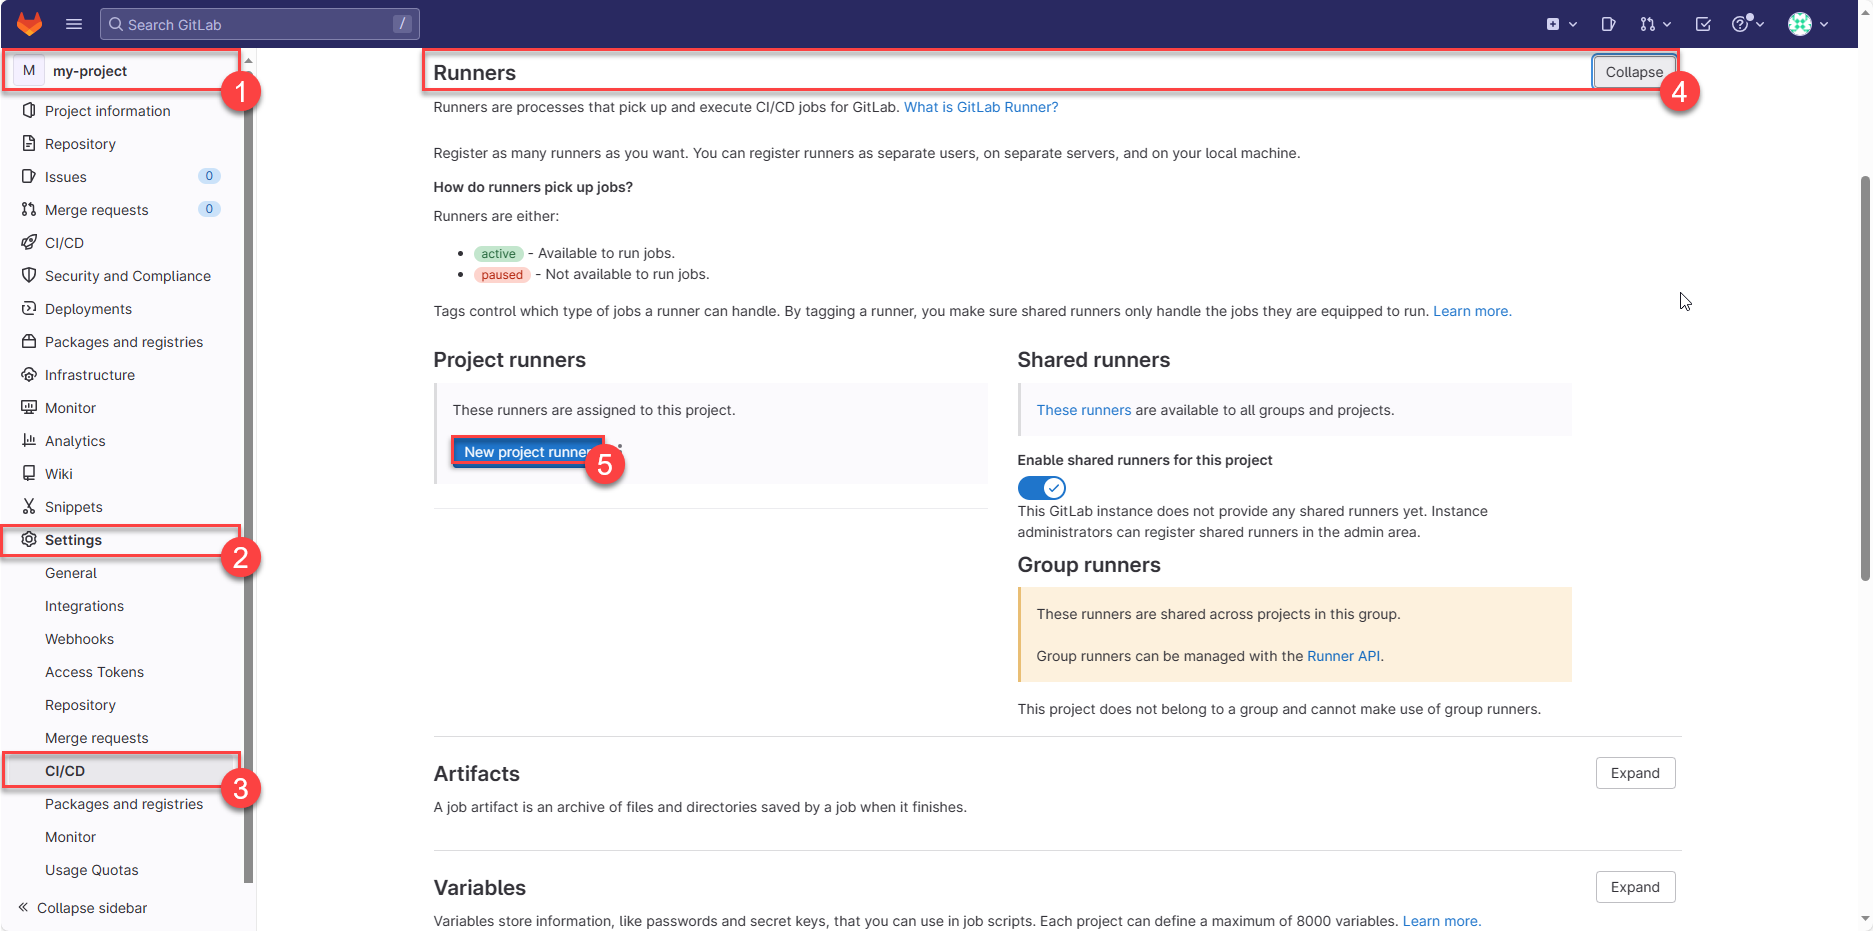
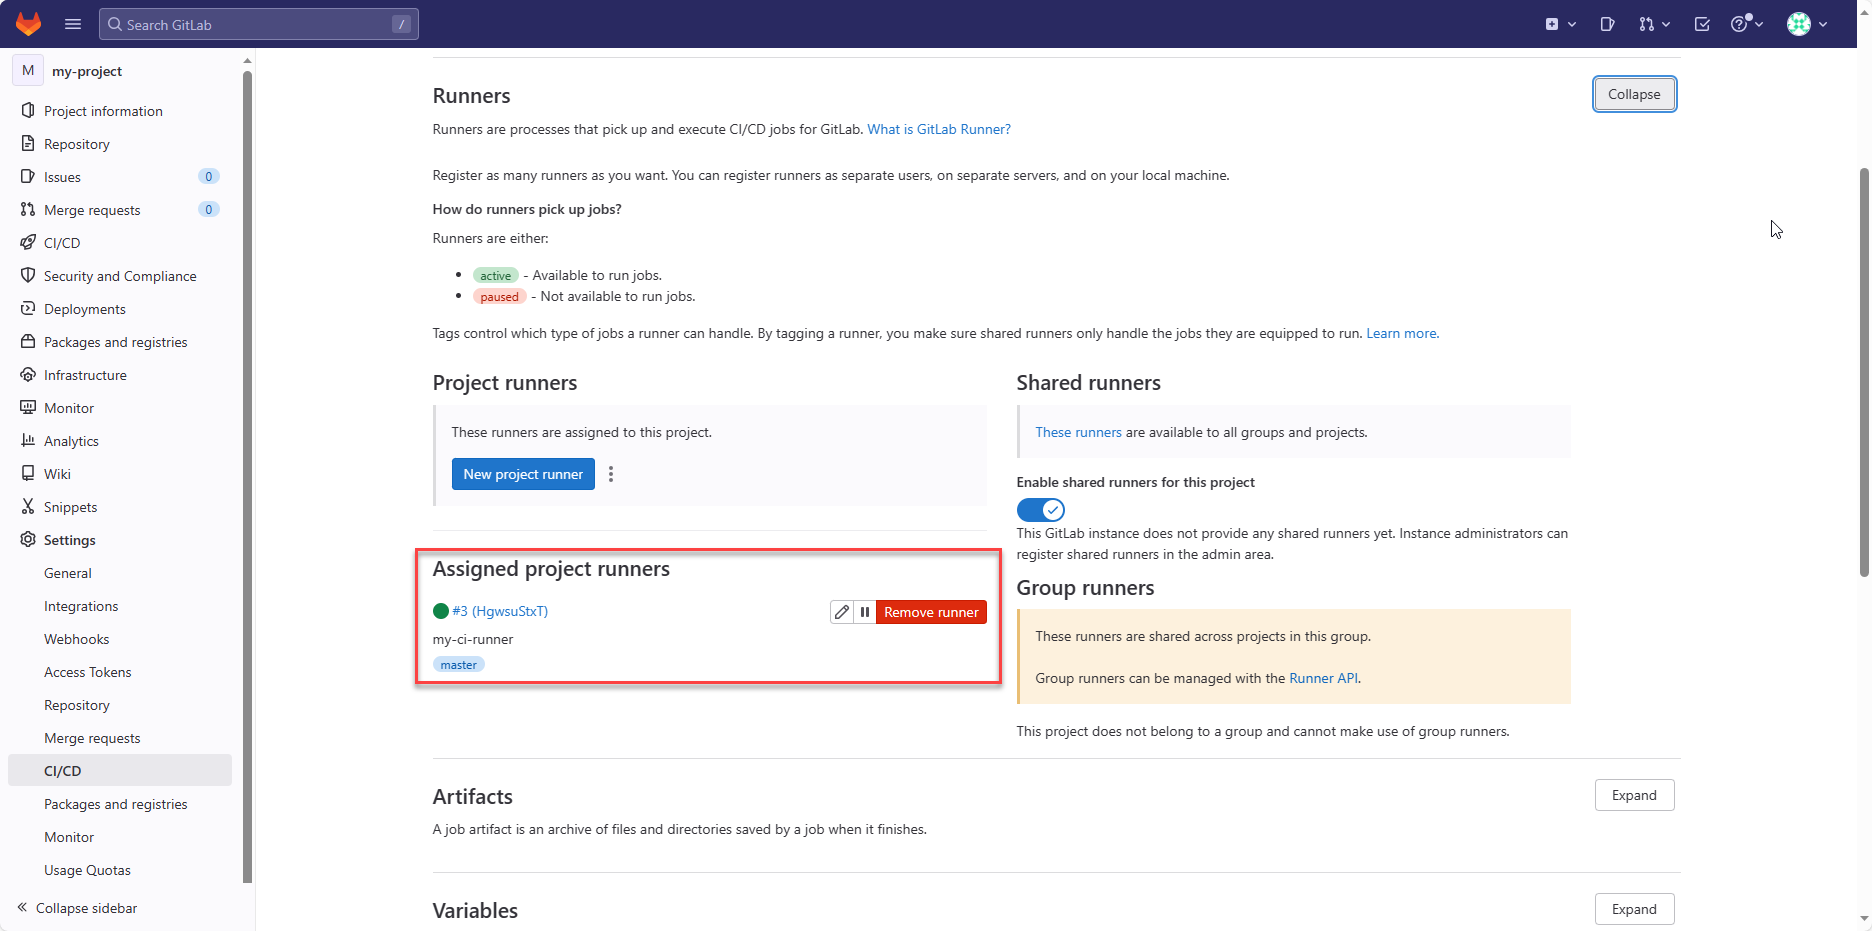
新的文章

diff --git a/source/_posts/運用Docker建置GitLab Server與GitLab CI Runner.md b/source/_posts/運用Docker建置GitLab Server與GitLab CI Runner.md
@@ -9,10 +9,10 @@ tags:
   - DevOps
 
 keywords: Docker, CI/CD, DevOps, GitLab
-date: 2023-5-16 12:00:00
+date: 2023-6-14 12:00:00
 copyright_info: 此文章版權歸JUN-HONG所有，如有轉載，請註明來自原作者
 
-cover: https://cdn.jsdelivr.net/gh/sp12893678/blog@gh-pages/img/
+cover: https://cdn.jsdelivr.net/gh/sp12893678/blog@gh-pages/img/banner_gitlab-server-runner-docker.jpg
 ---
 
 ## 前言
@@ -37,6 +37,12 @@ GitLab CI Runner為提供GitLab 運行CI/CD作業的應用程式
     - 運行GitLab CI Runner容器
     - 註冊GitLab CI Runner
     - 查看該Project的Runner是否成功註冊
+- 測試GitLab CI Runner
+    - 於Repo中建立.gitlab-ci.yml持續整合設定檔
+    - 觸發CI/CD機制
+    - 查看GitLab CI/CD Pipelines狀態
+    - .gitlab-ci.yml設置Docker指令
+
 
 ## 環境準備
 範例中的作業系統採用Ubuntu 22.04版本，環境只要安裝Docker
@@ -137,30 +143,29 @@ https://docs.gitlab.com/omnibus/settings/smtp.html
 ### 申請Gmail應用程式密碼
 若想要使用Gmail SMTP服務，讓你的軟體可以用指定的gmail發信，但又不想要在系統/軟體輸入自己的gmail密碼。如此可於google帳戶中申請應用程式密碼
 
-#### 前往Google帳戶管理頁面
-
-如圖點擊紅框處的按鈕
-    
-![Untitled](https://cdn.jsdelivr.net/gh/sp12893678/blog@gh-pages/img/gitlab-server-1.jpg)
-
-
-#### 到安全性頁面點擊兩步驟驗證，並進行相關設定
-
-{% note info flat %}
-💡透過兩步驟驗證使得之後不小心外洩密碼，google發現是異地登入時會需要手機驗證
-增加帳戶的安全性
-{% endnote %}
-![Untitled](https://cdn.jsdelivr.net/gh/sp12893678/blog@gh-pages/img/gitlab-server-2.jpg)
+- 前往Google帳戶管理頁面
+    如圖點擊紅框處的按鈕
+        
+    ![Untitled](https://cdn.jsdelivr.net/gh/sp12893678/blog@gh-pages/img/gitlab-server-1.jpg)
 
 
-#### 下拉到下方內容點擊紅框，前往應用程式密碼頁面
-![Untitled](https://cdn.jsdelivr.net/gh/sp12893678/blog@gh-pages/img/gitlab-server-3.jpg)
+- 到安全性頁面點擊兩步驟驗證，並進行相關設定
 
-#### 選擇所需的產生密碼的應用程式與裝置
-- 我們的需求是SMTP也就郵件應用程式
-- 裝置可以自訂名稱。如GitLab server
-- 按產生按鈕就會顯示密碼拉
-![Untitled](https://cdn.jsdelivr.net/gh/sp12893678/blog@gh-pages/img/gitlab-server-4.jpg)
+    {% note info flat %}
+    💡透過兩步驟驗證使得之後不小心外洩密碼，google發現是異地登入時會需要手機驗證
+    增加帳戶的安全性
+    {% endnote %}
+    ![Untitled](https://cdn.jsdelivr.net/gh/sp12893678/blog@gh-pages/img/gitlab-server-2.jpg)
+
+
+- 下拉到下方內容點擊紅框，前往應用程式密碼頁面
+    ![Untitled](https://cdn.jsdelivr.net/gh/sp12893678/blog@gh-pages/img/gitlab-server-3.jpg)
+
+- 選擇所需的產生密碼的應用程式與裝置
+    - 我們的需求是SMTP也就郵件應用程式
+    - 裝置可以自訂名稱。如GitLab server
+    - 按產生按鈕就會顯示密碼拉
+    ![Untitled](https://cdn.jsdelivr.net/gh/sp12893678/blog@gh-pages/img/gitlab-server-4.jpg)
 
 ### 撰寫.env環境變數
 從docker-compose.yml中可以看到有被${}符號標記的為使用環境變數，SMTP_PASSWORD的值就是填寫剛才申請的應用程式密碼拉
@@ -201,26 +206,26 @@ Notify.test_email('your_email', 'title', 'content').deliver_now
 
 在使用者註冊上，GitLab有提供許多的設置選項，讓團隊可以根據需求設定
 
-#### 以root身分登入並前往admin頁面
-![Untitled](https://cdn.jsdelivr.net/gh/sp12893678/blog@gh-pages/img/gitlab-server-5.jpg)
+- 以root身分登入並前往admin頁面
+    ![Untitled](https://cdn.jsdelivr.net/gh/sp12893678/blog@gh-pages/img/gitlab-server-5.jpg)
 
-#### 在側邊選單點擊Settings→General
-![Untitled](https://cdn.jsdelivr.net/gh/sp12893678/blog@gh-pages/img/gitlab-server-6.jpg)
+- 在側邊選單點擊Settings→General
+    ![Untitled](https://cdn.jsdelivr.net/gh/sp12893678/blog@gh-pages/img/gitlab-server-6.jpg)
 
-#### 下拉至Sign-up restrictions
+- 下拉至Sign-up restrictions
 
-這邊是註冊的限制相關設定，如：
+    這邊是註冊的限制相關設定，如：
 
-1. 否允許註冊
-2. 是否需要管理者同意新註冊用戶
-3. 信件確認設定 (不強制使用者信件確認、可立即登入，但三天內需信件確認、登入前必須完成信件確認)
-4. 密碼最低長度
-5. 允許或拒絕來自哪些domain的註冊
-6. 設定註冊信箱必須符合設置的regex格式
-![Untitled](https://cdn.jsdelivr.net/gh/sp12893678/blog@gh-pages/img/gitlab-server-7.jpg)
+    1. 否允許註冊
+    2. 是否需要管理者同意新註冊用戶
+    3. 信件確認設定 (不強制使用者信件確認、可立即登入，但三天內需信件確認、登入前必須完成信件確認)
+    4. 密碼最低長度
+    5. 允許或拒絕來自哪些domain的註冊
+    6. 設定註冊信箱必須符合設置的regex格式
+    ![Untitled](https://cdn.jsdelivr.net/gh/sp12893678/blog@gh-pages/img/gitlab-server-7.jpg)
 
 
-完成設定後，就可以去嘗試使用者註冊啦
+    完成設定後，就可以去嘗試使用者註冊啦
 
 
 
@@ -271,63 +276,129 @@ docker compose up
 ![Untitled](https://cdn.jsdelivr.net/gh/sp12893678/blog@gh-pages/img/gitlab-server-11.jpg)
 
 ### 註冊GitLab CI Runner
-1. 進入runner容器內
+- 進入runner容器內
 
-```bash
-docker exec -it gitlab_runner bash
-```
+    ```bash
+    docker exec -it gitlab_runner bash
+    ```
 
-1. 設置信任的網站SSL憑證
+- 設置信任的網站SSL憑證
 
-若嘗試訪問的網站具有已過期或來自不受信任的頒發機構的 SSL 證書，可能會出現下圖問題
-![Untitled](https://cdn.jsdelivr.net/gh/sp12893678/blog@gh-pages/img/gitlab-server-12.jpg)
+    若嘗試訪問的網站具有已過期或來自不受信任的頒發機構的 SSL 證書，可能會出現下圖問題
+    ![Untitled](https://cdn.jsdelivr.net/gh/sp12893678/blog@gh-pages/img/gitlab-server-12.jpg)
 
-因此註冊前先將gitlab server網站的憑證加入至信任內
+    因此註冊前先將gitlab server網站的憑證加入至信任內
 
-```yaml
-mkdir /etc/gitlab-runner/certs
-openssl s_client -showcerts -connect your_domain:443 servername your_domain < /dev/null 2>/dev/null | openssl x509 -outform PEM > /etc/gitlab-runner/certs/your_domain.crt
-```
+    ```yaml
+    mkdir /etc/gitlab-runner/certs
+    openssl s_client -showcerts -connect your_domain:443 servername your_domain < /dev/null 2>/dev/null | openssl x509 -outform PEM > /etc/gitlab-runner/certs/your_domain.crt
+    ```
 
-1. 執行runner註冊指令
+- 執行runner註冊指令
 
-```bash
-gitlab-runner register
-```
-註冊中會要求輸入：
+    ```bash
+    gitlab-runner register
+    ```
+    註冊中會要求輸入：
 
-1. GitLab server URL：由於docker-compose.yml有先設定了，這邊默認即可
-2. 註冊Runner的token：貼上剛才指令的token
-3. 該Runner的tags：空白即可
-4. 維護的資訊：空白即可
-5. 執行器：docker
-6. 預設docker image：alpine:latest
-![Untitled](https://cdn.jsdelivr.net/gh/sp12893678/blog@gh-pages/img/gitlab-server-13.jpg)
-{% note info flat %}
-💡Docker executor 使用 Docker 引擎創建一個新的容器來執行作業。每個作業都在一個獨立的容器中運行，可以指定不同的容器鏡像和運行環境。這種執行者適用於需要隔離環境或依賴特定容器鏡像的作業。
-{% endnote %}
+    1. GitLab server URL：由於docker-compose.yml有先設定了，這邊默認即可
+    2. 註冊Runner的token：貼上剛才指令的token
+    3. 該Runner的tags：空白即可
+    4. 維護的資訊：空白即可
+    5. 執行器：docker
+    6. 預設docker image：alpine:latest
+    ![Untitled](https://cdn.jsdelivr.net/gh/sp12893678/blog@gh-pages/img/gitlab-server-13.jpg)
+    {% note info flat %}
+    💡Docker executor 使用 Docker 引擎創建一個新的容器來執行作業。每個作業都在一個獨立的容器中運行，可以指定不同的容器鏡像和運行環境。這種執行者適用於需要隔離環境或依賴特定容器鏡像的作業。
+    {% endnote %}
 
 
-1. 查看設定檔config.toml
+- 查看設定檔config.toml
 
-可以看到剛才的註冊資訊寫入至該設定檔中，後續更新與檢查可使用
+    可以看到剛才的註冊資訊寫入至該設定檔中，後續更新與檢查可使用
 
-```yaml
-cat config.toml
-```
-![Untitled](https://cdn.jsdelivr.net/gh/sp12893678/blog@gh-pages/img/gitlab-server-14.jpg)
+    ```yaml
+    cat config.toml
+    ```
+    ![Untitled](https://cdn.jsdelivr.net/gh/sp12893678/blog@gh-pages/img/gitlab-server-14.jpg)
 
-1. 更新config.toml配置檔設定
+- 更新config.toml配置檔設定
 
-config.toml配置檔中volumes部分需更新為以下，如此執行docker相關指令時才可運作
+    config.toml配置檔中volumes部分需更新為以下，如此執行docker相關指令時才可運作
 
-```yaml
-volumes = ["/var/run/docker.sock:/var/run/docker.sock", "/cache"]
-```
+    ```yaml
+    volumes = ["/var/run/docker.sock:/var/run/docker.sock", "/cache"]
+    ```
 
 ### 查看該Project的Runner是否成功註冊
 重整頁面，可發現下圖紅框處有可使用的runner
 ![Untitled](https://cdn.jsdelivr.net/gh/sp12893678/blog@gh-pages/img/gitlab-server-15.jpg)
 
+## 測試GitLab CI Runner
+
+上一節建立GitLab CI Runner後，在設置頁面雖然有可使用的Runner，但仍需要檢驗CI/CD流程是否會觸發進行任務需求
+
+### 於Repo中建立.gitlab-ci.yml持續整合設定檔
+
+在個人專案中，建立.gitlab-ci.yml，其中內容如下：
+
+這是簡易的運行範例
+
+```bash
+stages:
+- build
+build:
+  stage: build
+  tags:
+   - master
+  script:
+    - echo "Hello GitLab Runner"
+```
+{% note info flat %}
+💡tags為指定執行的runner，在最初runner新增設定時有提到
+{% endnote %}
+
+### 觸發CI/CD機制
+
+接著就推送版本紀錄即可觸發CI/CD機制
+
+上述版本沒有任何限制，若期望只在master分支或指定分支版本紀錄時觸發也可以額外設置
+
+或者是merge request事件觸發等規則設定
+
+### 查看GitLab CI/CD Pipelines狀態
+
+觸發後在GitLab CI/CD Pipelines可以查看目前的任務
+
+狀態前期會有pending → running
+
+pending代表準備將任務指派給runner
+
+running代表runner已經在執行CI/CD任務了
+
+{% note info flat %}
+💡若一直處於pending狀態可點擊前去查看原因，可能是沒有可用的runner
+{% endnote %}
+
+![Untitled](https://cdn.jsdelivr.net/gh/sp12893678/blog@gh-pages/img/gitlab-server-16.jpg)
+
+### .gitlab-ci.yml設置Docker環境
+
+可以看到我的pipeline中有幾次的失敗，其原因為若欲在CI/CD中使用docker指令，需要設置image為docker
+
+```bash
+stages:
+- build
+
+build:
+  stage: build
+  image: docker
+  tags:
+   - master
+  script:
+    - echo "Hello GitLab Runner2"
+    - docker -v
+```
+
 ## 結語
-本篇大致敘述了borg備份工具的使用，自動化異地備份使資料不會放在同一個籃子上而毀壞，大幅增加災難恢復的能力。此外，在災難恢復中有著2個關鍵的指標RTO (Recovery Time Objective, 復原時間目標)和RPO (Recovery Point Objective, 復原點目標)，期望復原點目標越近，備份的頻率就相對高，而期望復原時間目標越快則需要更快速的故障轉移(failover)策略。除了Backup and Restore，Pilot Light、Warm Standby、Multi-site亦是未來可研究的方向。
+本篇大致敘述以docker建置GitLab Server與GitLab Runner的方法，並進行了簡易的CI測試Runner運作狀態。透過容器化方式可以使得CI/CD任務需求中更容易達成所需的環境。本篇在gitlab ci設置檔屬於簡易使用，未來可詳細探討設置的細節。
